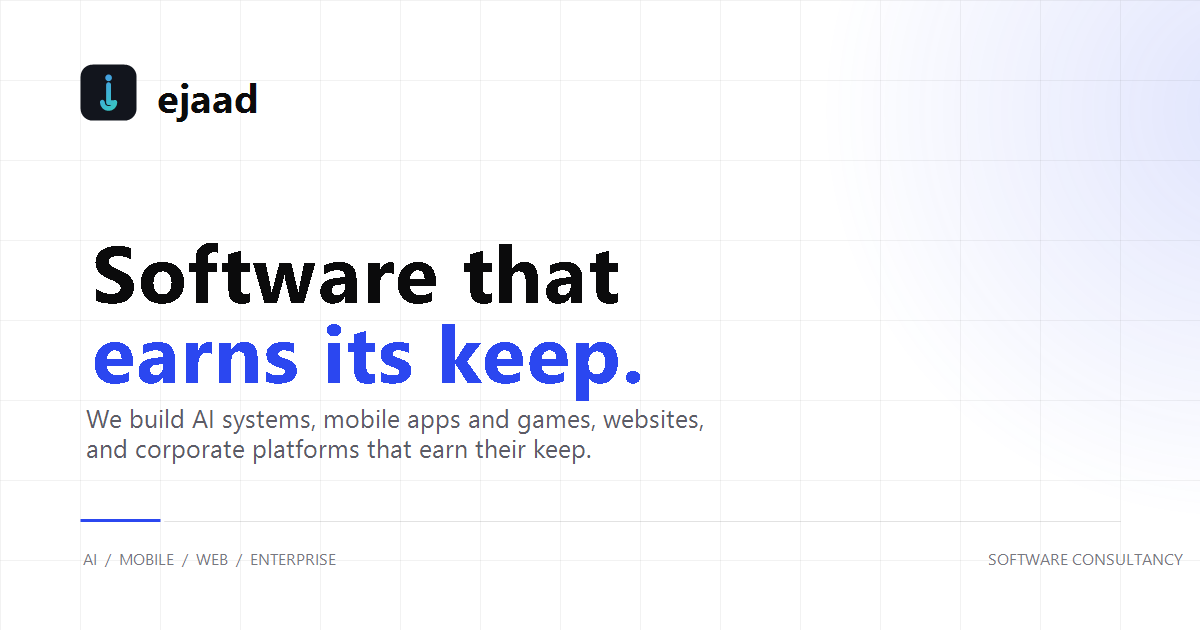
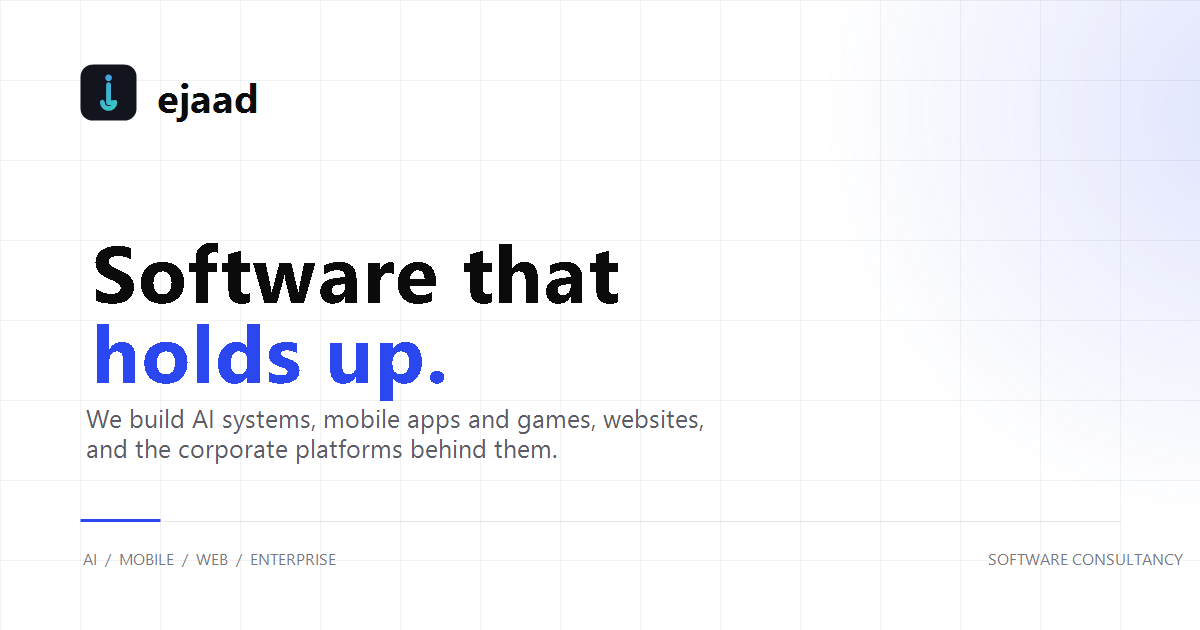
New tagline and tighter hero layout

Changed region(s): [[0.0617, 0.5127, 0.555, 0.6333], [0.0925, 0.6937, 0.4933, 0.754]]

diff --git a/index.html b/index.html
@@ -11,7 +11,7 @@
 <meta property="og:type" content="website" />
 <meta property="og:site_name" content="ejaad" />
 <meta property="og:title" content="ejaad — Software Consulting" />
-<meta property="og:description" content="We build AI systems, mobile apps and games, websites, and corporate platforms that earn their keep." />
+<meta property="og:description" content="We build AI systems, mobile apps and games, websites, and the corporate platforms behind them." />
 <meta property="og:url" content="https://mjunaid106.github.io/ejaad/" />
 <meta property="og:image" content="https://mjunaid106.github.io/ejaad/assets/img/og.png" />
 <meta name="twitter:card" content="summary_large_image" />
@@ -83,8 +83,8 @@
   <!-- ============================ HERO ============================ -->
   <section class="hero" id="home">
     <div class="container">
-      <p class="eyebrow reveal"><span class="sq"></span>Software consultancy<span class="eyebrow-cats"> — AI · Mobile · Web · Enterprise</span></p>
-      <h1 class="reveal">Software that<br /><span class="accent">earns its keep.</span></h1>
+      <p class="eyebrow reveal"><span class="sq"></span>Software consultancy</p>
+      <h1 class="reveal">Software that<br /><span class="accent">holds up.</span></h1>
 
       <div class="hero-row reveal">
         <p class="lede">
@@ -508,7 +508,7 @@
         </span>
         <span class="brand-text">ejaad</span>
       </a>
-      <p>Software consulting for AI, mobile, web, and corporate systems.</p>
+      <p>Software consultancy for AI, mobile, web, and corporate systems.</p>
     </div>
     <nav class="footer-nav" aria-label="Footer">
       <a href="#services">Services</a>

diff --git a/assets/css/styles.css b/assets/css/styles.css
@@ -267,10 +267,10 @@ strong { font-weight: 600; }
 .hero h1 + .hero-row { margin-top: clamp(1.8rem, 3.5vw, 2.6rem); }
 
 .hero-row {
-  display: grid;
-  grid-template-columns: minmax(0, 1fr) minmax(0, 0.9fr);
-  gap: 2rem 4rem;
-  align-items: end;
+  display: flex;
+  flex-direction: column;
+  align-items: flex-start;
+  gap: 1.35rem;
 }
 .lede {
   max-width: 48ch;
@@ -874,7 +874,7 @@ a.contact-line:hover .contact-value { color: var(--accent); }
    -------------------------------------------------------------------------- */
 
 @media (max-width: 1000px) {
-  .hero-row { grid-template-columns: 1fr; gap: 1.6rem; align-items: start; }
+  .hero-row { gap: 1.3rem; }
   .capability-band { grid-template-columns: repeat(2, minmax(0, 1fr)); }
   .cap:nth-child(2n) { border-right: 0; }
   .cap:nth-child(-n + 2) { border-bottom: 1px solid var(--line); }
@@ -937,8 +937,7 @@ a.contact-line:hover .contact-value { color: var(--accent); }
 
   .hero { padding-top: 2.2rem; padding-bottom: 1.6rem; }
   .hero h1 { font-size: clamp(2.45rem, 10.5vw, 3.6rem); }
-  .eyebrow-cats { display: none; }
-  .hero-actions { align-items: flex-start; flex-direction: column; }
+  .hero-actions { width: 100%; align-items: flex-start; flex-direction: column; }
   .hero-actions .btn { width: 100%; }
 
   .cap { padding: 1.1rem 0.9rem 1.3rem; gap: 0; min-height: 118px; }
